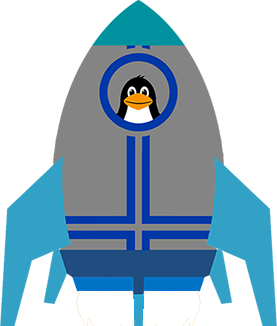
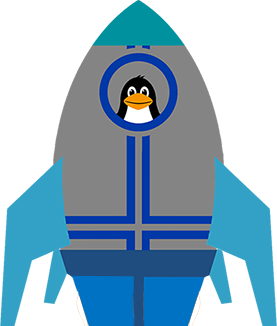
Add files via upload
Starting Final Vertical Model

Changed region(s): [[0.2599, 0.8896, 0.722, 1.0]]

diff --git a/css/styleV.css b/css/styleV.css
@@ -20,32 +20,30 @@ body{
 	filter: progid:DXImageTransform.Microsoft.gradient( startColorstr='#002044', endColorstr='#000000', GradientType=0 );
 }
 
-/*MAIN DIVS COLOCATION*/
-.a {
-    float: left;
-	width: 250px;
-	height: 450px;
+ul {
+	list-style-type: none;
+	padding: 0;
+	margin: 0;
 }
 
-/*CONTAINS B & C AND IS RESIZABLE*/
-.wrapper {
-    float:right;
-	width: calc(100% - 250px);
-	height: 75%;
+.options {
+	overflow: hidden;
+	position: fixed;
+	top: 0;
+	width: 70%;
+	height: 10%;
+	margin-left: 15%;
 }
 
-.b {
-	padding-top: 2%;
-    float: left;
-    width: 70%;
-    height: 100%;
+.options li {
+	text-align: center;
+	float: left;
+    width: 33.33%;
+	height: 100%;
 }
 
-.c {
-    position: relative;
-    width: 30%;
-    height: 100%;
-    float: right;
+.options img {
+	height: 100%;
 }
 
 /*GROUND*/
@@ -61,94 +59,6 @@ body{
     height: 100%;
 }
 
-/*ROCKET*/
-.rocket {
-    width: 100%;
-    height: 20%;
-}
-
-#rocket {
-
-	width: 100%;
-	height: 85%;
-}
-
-#rocket img {
-    height: 100%; /*To adjust the fire to the tocket*/
-	display: block;
-	margin: auto;
-}
-
-#fire {
-    width: 100%;
-    height: 15%;
-}
-
-#fire img {
-    height: 100%;
-	display: block;
-	margin: auto;
-}
-
-/*LISTS*/
-ul {
-    list-style: none;
-	padding: 0px;
-	margin: 0px;
-	overflow: hidden;
-}
-
-.cp li {
-    margin-top: 20px;
-    display: inline-block;
-}
-
-#speed, #fuel, #height {
-	width: 90%;
-    line-height: 500%;
-	background-size: 100% 100%;
-	display: block;
-	margin: auto;
-	margin-top: 5%;
-}
-
-.cp li p {
-    font-family: myFont;
-    font-weight: bold;
-    font-size: 1em;
-    margin-left: 43%;
-}
-
-#speed {
-	background-image: url("../img/speed.png");
-}
-
-#fuel {
-	background-image: url("../img/fuel.png");
-}
-
-#height {
-	background-image: url("../img/height.png");
-}
-
-
-.options li {
-	text-align: center;
-	float: left;
-    width: 33.33%;
-}
-
-.options img {
-    width: 60%;
-    padding: 15%;
-}
-
-.pro {
-    position: absolute;
-    bottom: 5%;
-    left: 15%;
-    width: 70%;
-}
 
 /*INSTRUCTIONS*/
 .instructions {

diff --git a/indexV.html b/indexV.html
@@ -3,7 +3,7 @@
 
 <head>
     <title>Lunar Lander</title>
-    <link rel="stylesheet" type="text/css" href="css/styleH.css">
+    <link rel="stylesheet" type="text/css" href="css/styleV.css">
 </head>
 
 <body>
